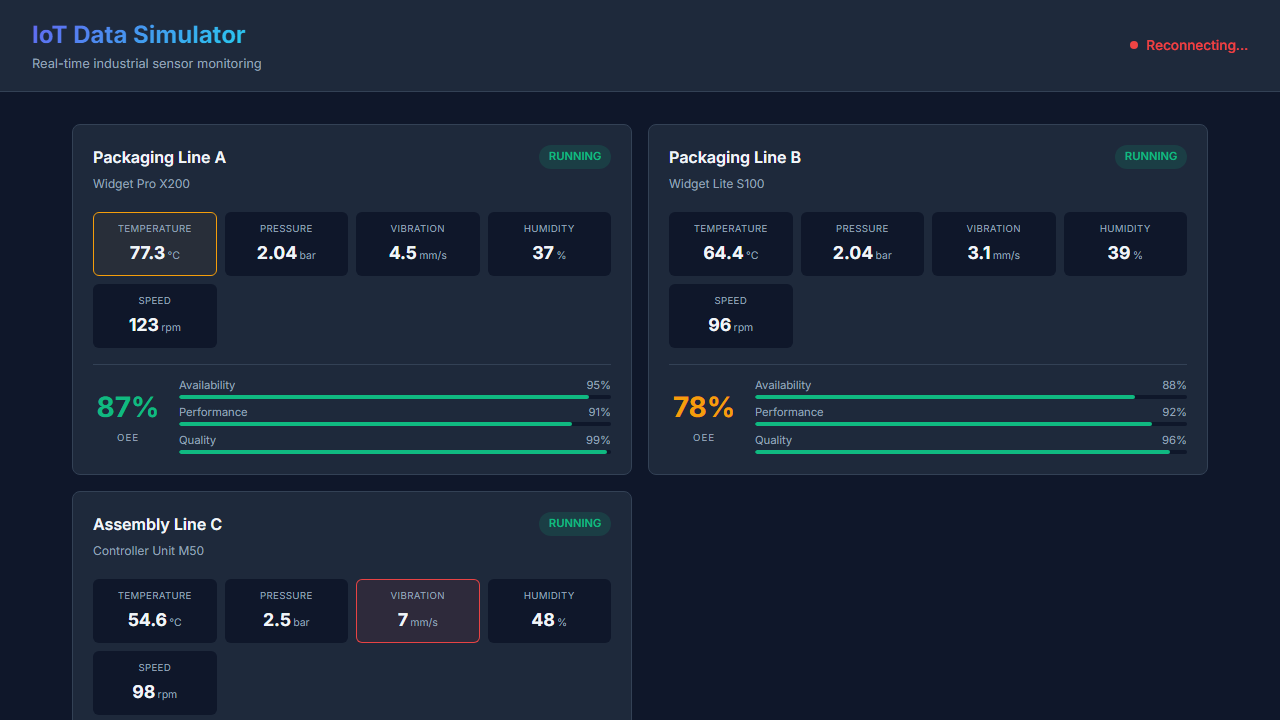
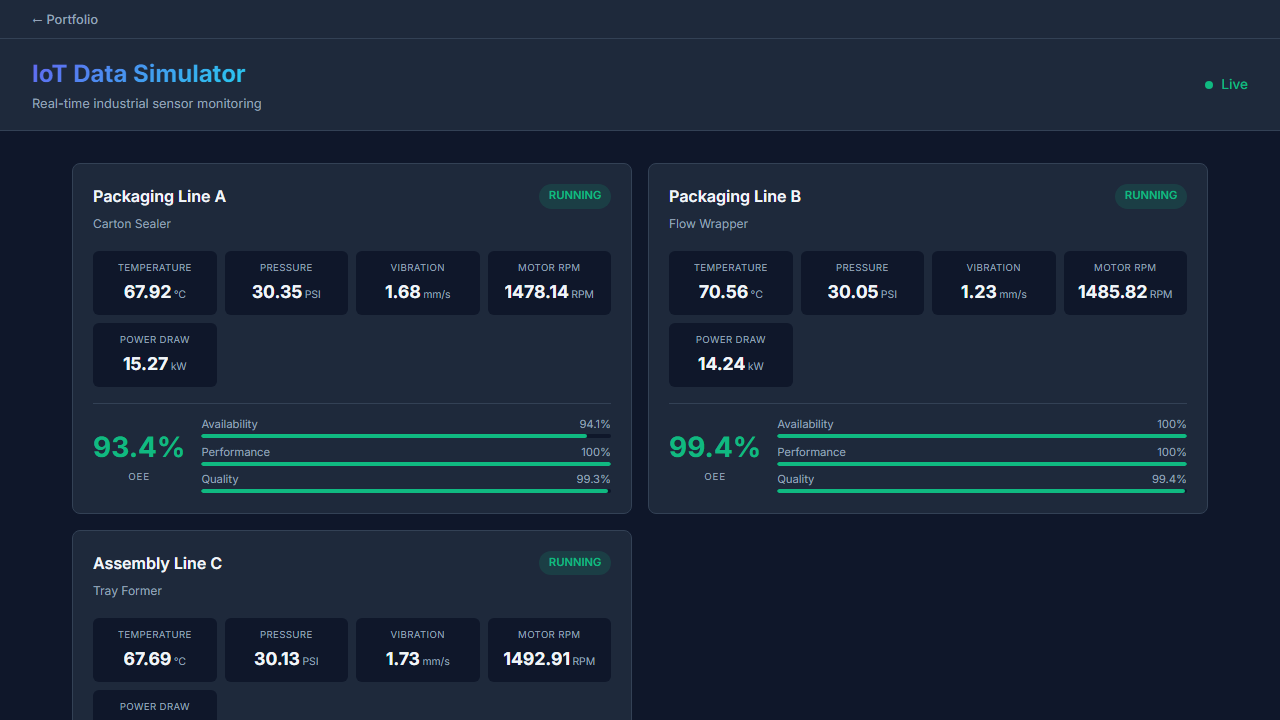
Update IoT simulator screenshot on portfolio landing page. Fix GitHub links

diff --git a/src/data/projects.js b/src/data/projects.js
@@ -7,7 +7,7 @@ const projects = [
     type: "Full-Stack",
     stack: ["React", "Flask", "PostgreSQL", "LangChain", "Groq"],
     githubUrl:
-      "https://github.com/reginareynolds/programming-portfolio/tree/main/projects/ai-dashboard",
+      "https://github.com/reginareynolds/programming-portfolio/tree/master/projects/ai-dashboard",
     liveUrl: "https://ai-dashboard-frontend-indol.vercel.app",
     thumbnail: "/images/projects/ai-dashboard.png",
   },
@@ -19,7 +19,7 @@ const projects = [
     type: "Full-Stack",
     stack: ["React", "Three.js", "Express", "Node.js"],
     githubUrl:
-      "https://github.com/reginareynolds/programming-portfolio/tree/main/projects/3d-model-viewer",
+      "https://github.com/reginareynolds/programming-portfolio/tree/master/projects/3d-model-viewer",
     liveUrl: "https://3d-model-viewer-frontend-seven.vercel.app",
     thumbnail: "/images/projects/3d-model-viewer.png",
   },
@@ -31,7 +31,7 @@ const projects = [
     type: "Backend",
     stack: ["Flask", "PostgreSQL", "JWT", "Docker", "GitHub Actions"],
     githubUrl:
-      "https://github.com/reginareynolds/programming-portfolio/tree/main/projects/rest-api-microservice",
+      "https://github.com/reginareynolds/programming-portfolio/tree/master/projects/rest-api-microservice",
     liveUrl: null,
     thumbnail: null,
   },
@@ -43,7 +43,7 @@ const projects = [
     type: "Full-Stack",
     stack: ["React", "FastAPI", "WebSockets", "Recharts"],
     githubUrl:
-      "https://github.com/reginareynolds/programming-portfolio/tree/main/projects/iot-data-simulator",
+      "https://github.com/reginareynolds/programming-portfolio/tree/master/projects/iot-data-simulator",
     liveUrl: "https://iot-data-simulator-frontend.vercel.app",
     thumbnail: "/images/projects/iot-data-simulator.png",
   },
@@ -55,7 +55,7 @@ const projects = [
     type: "Static",
     stack: ["React", "Three.js", "Vite", "GitHub Pages"],
     githubUrl:
-      "https://github.com/reginareynolds/programming-portfolio/tree/main/projects/art-portfolio",
+      "https://github.com/reginareynolds/programming-portfolio/tree/master/projects/art-portfolio",
     liveUrl: null,
     thumbnail: null,
   },